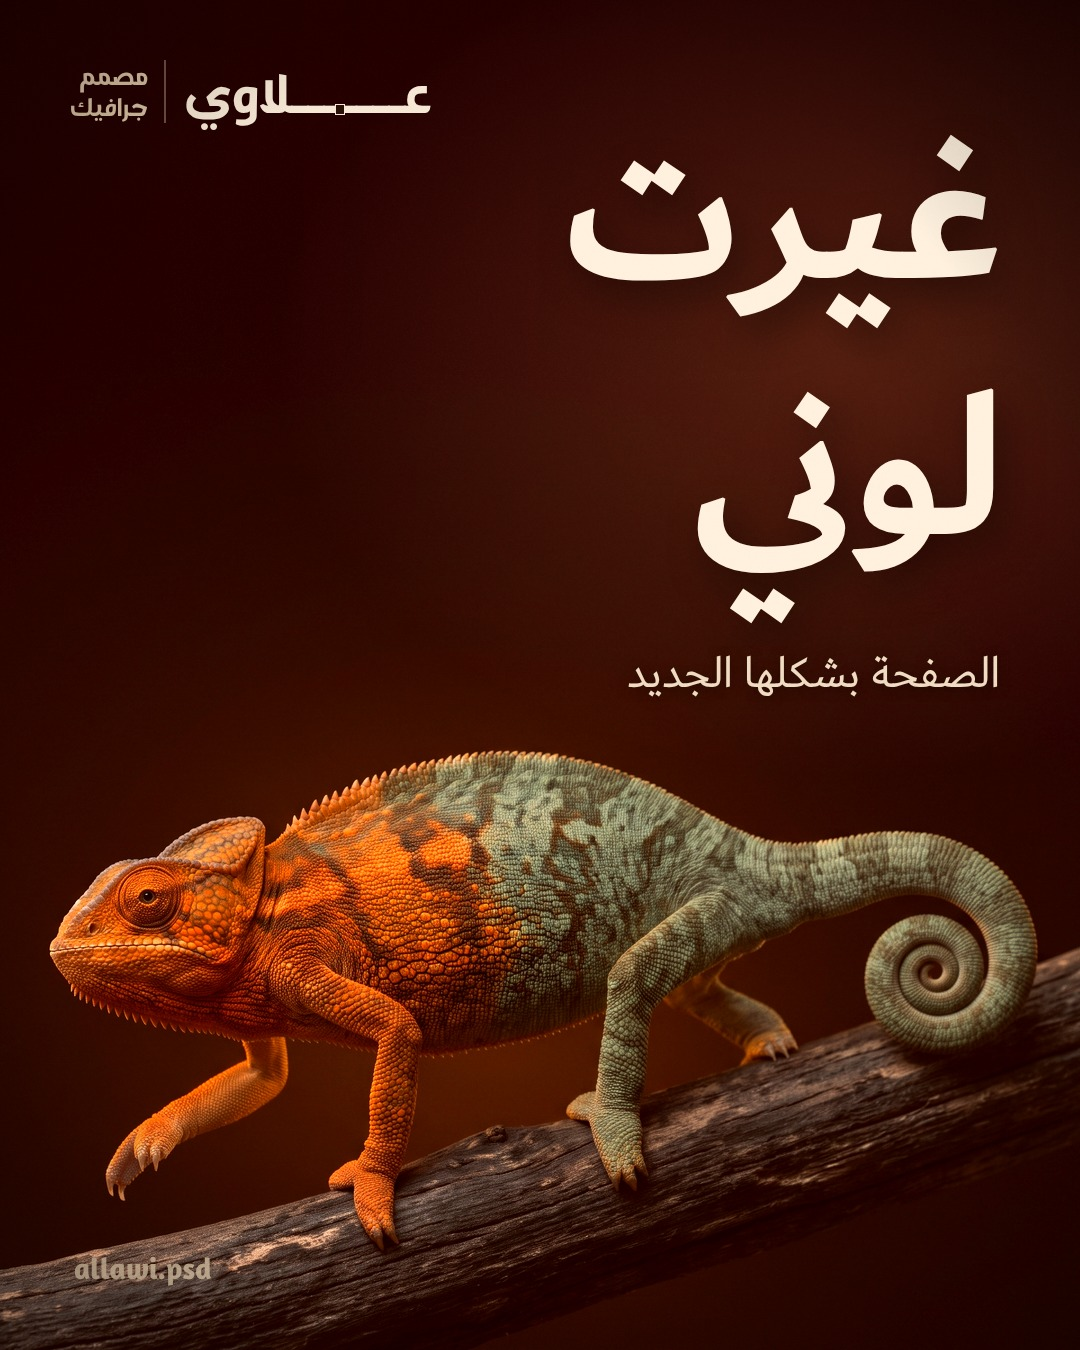
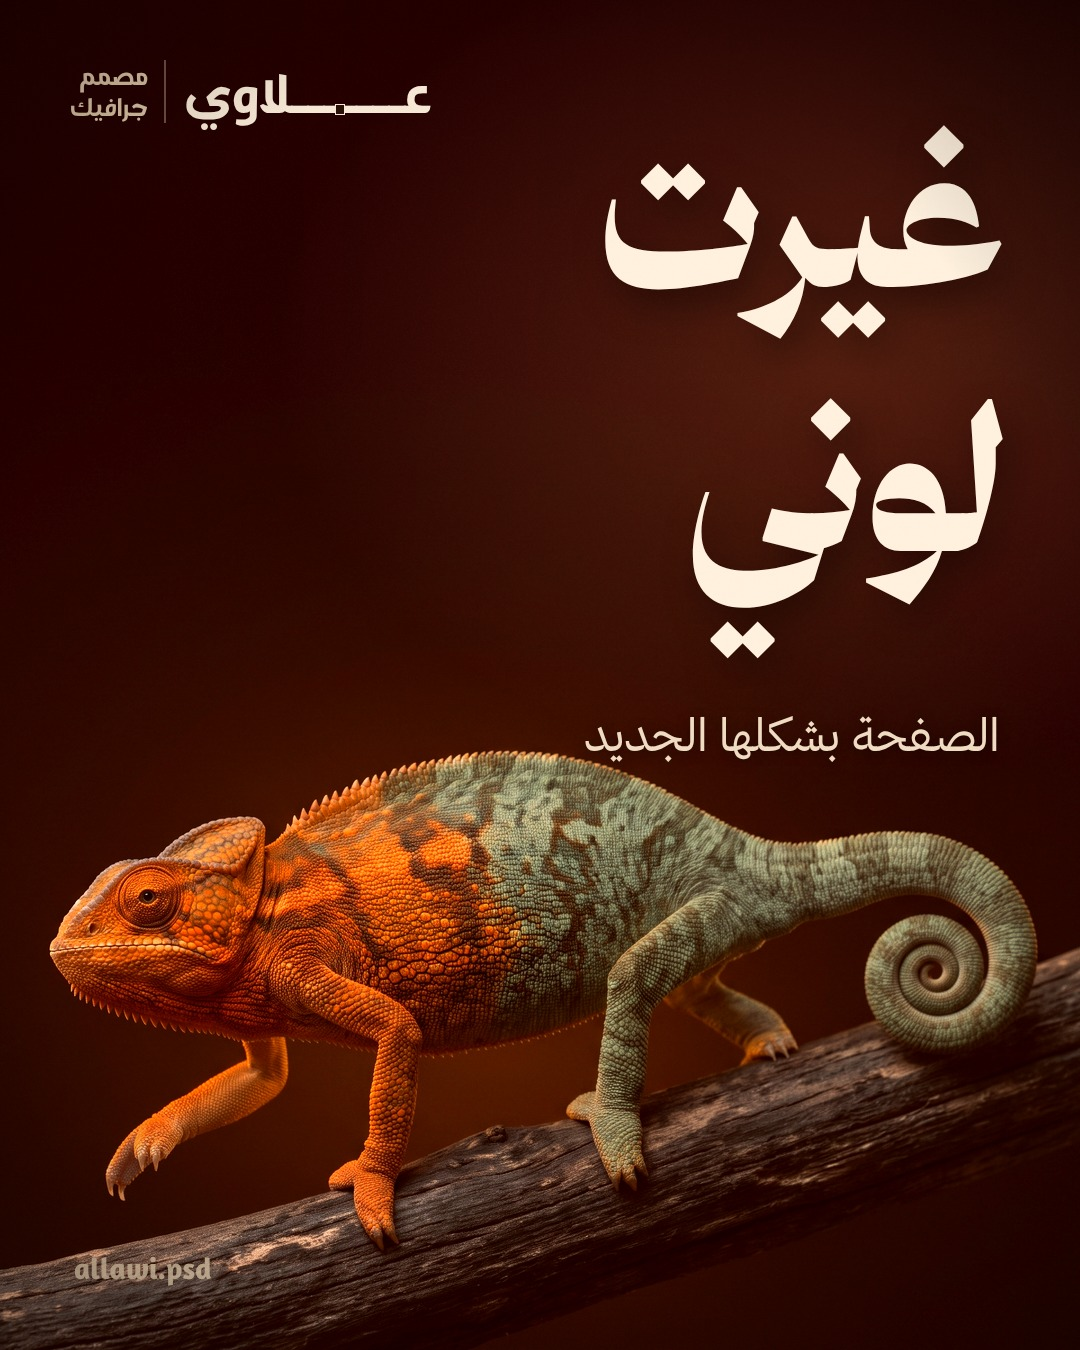
Rebrand carousel: Thmanyah Serif Display headlines, Thmanyah Sans lines

Changed region(s): [[0.55, 0.28, 0.9472, 0.56], [0.5194, 0.0933, 0.9167, 0.2489]]

diff --git a/marketing/rebrand/carousel.html b/marketing/rebrand/carousel.html
@@ -4,10 +4,10 @@
 <meta charset="utf-8">
 <style>
   @font-face { font-family: Sahabah; src: url(../brand-fonts/DG-Sahabah-Reg.ttf); font-weight: 400; }
-  /* Dubai: Bold for the headlines, Regular for the line under them (free for commercial use; the files stay out of
-     git under its licence, download them into fonts-local/ from dubaifont.com) */
-  @font-face { font-family: Ruqaa; src: url(fonts-local/Dubai-Bold.ttf); font-weight: 700; }
-  @font-face { font-family: Naskh; src: url(fonts-local/Dubai-Regular.ttf); font-weight: 700; }
+  /* Thmanyah, the user's own copies: Serif Display Black for the headlines, Sans Regular for the line under them (not in git: its
+     licence does not allow redistribution; put it in fonts-local/) */
+  @font-face { font-family: Ruqaa; src: url(fonts-local/Thmanyah-SerifDisplay-Black.otf); font-weight: 700; }
+  @font-face { font-family: Naskh; src: url(fonts-local/Thmanyah-Sans-Regular.otf); font-weight: 700; }
   * { margin:0; padding:0; box-sizing:border-box }
   body { background:#111; display:flex; gap:40px; padding:40px; width:3500px; font-family:Sahabah, sans-serif; font-weight:400; font-synthesis:none }
   .art { position:relative; width:1080px; height:1350px; overflow:hidden }
@@ -21,7 +21,7 @@
 
   /* the headline: stacked on the right, lit from the same lamp (white at the top, warm at the foot), with a soft shadow
      on the backdrop behind it so it sits in the room rather than on the screen */
-  .head { right:74px; top:var(--top); direction:rtl; text-align:right; white-space:nowrap; font-family:Ruqaa; font-weight:700; font-feature-settings:"liga" 0, "dlig" 0;
+  .head { right:74px; top:var(--top); direction:rtl; text-align:right; white-space:nowrap; font-family:Ruqaa; font-weight:700; line-height:1.32 !important; font-feature-settings:"liga" 0, "dlig" 0;
     color:#fff1de; font-size:var(--fs); line-height:1.22; filter:drop-shadow(10px 16px 18px rgba(18,4,0,.55)) }
   .line { right:80px; top:var(--ltop); direction:rtl; text-align:right; font-family:Naskh; font-weight:700; font-size:46px; line-height:1.5;
     color:#efdcc2; text-shadow:0 2px 12px rgba(18,4,0,.5) }
@@ -35,9 +35,9 @@
   .vig { inset:0; background:radial-gradient(ellipse 85% 80% at 50% 50%, rgba(0,0,0,0) 58%, rgba(10,3,0,.5) 100%) }
   .grain { inset:0; background:url(../ig-highlights/assets/img/grain.png) 0 0/512px; mix-blend-mode:overlay; opacity:.1 }
 
-  #s1 { --mx:-300px; --my:-200px; --fs:210px; --top:90px; --ltop:640px }
-  #s2 { --mx:-900px; --my:-500px; --fs:165px; --top:140px; --ltop:548px }
-  #s3 { --mx:-600px; --my:-1000px; --fs:200px; --top:150px; --ltop:690px }
+  #s1 { --mx:-300px; --my:-200px; --fs:200px; --top:80px; --ltop:700px }
+  #s2 { --mx:-900px; --my:-500px; --fs:150px; --top:130px; --ltop:548px }
+  #s3 { --mx:-600px; --my:-1000px; --fs:185px; --top:110px; --ltop:790px }
 </style>
 </head>
 <body>
@@ -65,7 +65,7 @@
 <div class="art" id="s3">
   <img class="plate" src="img/plate-chameleon-3.png" alt="">
   <div class="lamp"></div>
-  <div class="head">دزلي<br>بالخاص</div>
+  <div class="head" style="line-height:1.5 !important">دزلي<br>بالـخاص</div>
   <div class="line">كلي شنو تبيع، وارجعلك بفكرة</div>
   <div class="lock"><span class="wm"><span class="t">عـــــــلاوي</span><span class="h"></span></span><span class="who">مصمم<br>جرافيك</span></div>
   <div class="handle">allawi.psd</div>

diff --git a/marketing/rebrand/README.md b/marketing/rebrand/README.md
@@ -37,10 +37,12 @@ around the subject, the wordmark small in the top corner.
 The user felt the font was the problem ("the way the text looks") and turned down DG Sahabah, eight Google display
 faces (`fonttest.html`) and six Naskh/Ruqaa faces (`naskhtest.html`), then asked me to choose to match ra.graphicc,
 whose headlines are a bold hand-brushed Naskh. Aref Ruqaa came next and was hard to read; Amiri Bold was readable but "basic". The user then asked me to choose
-again and turned down Playpen Sans Arabic too, asking for "better fonts". Google Fonts were exhausted; Thmanyah's
-fonts are personal use only. Headlines are now Dubai Bold and the line under each Dubai Regular (Dubai Font is free
-for commercial use but may not be redistributed, so the files are not in git: download Dubai from dubaifont.com into
-`fonts-local/` as `Dubai-Bold.ttf` and `Dubai-Regular.ttf` before rendering). The logo stays in DG Sahabah.
+again and turned down Playpen Sans Arabic, Dubai and a vivid red Cairo version. He then sent his own copies of the
+Thmanyah fonts: headlines are Thmanyah Serif Display Black and the line under each Thmanyah Sans Regular, in the
+version-B layout on the dark photos. Thmanyah's licence is personal use only and forbids redistribution: the files stay
+out of git (put them in `fonts-local/` as `Thmanyah-SerifDisplay-Black.otf` and `Thmanyah-Sans-Regular.otf`), and the
+user was told a commercial licence comes from Ask@thmanyah.com. «بالخاص» is set «بالـخاص» because the font stacks
+ل on خ; slide 3's headline has wider line spacing so the ي dots clear the خ. The logo stays in DG Sahabah.
 
 ## Vivid version (27 Oct)
 
